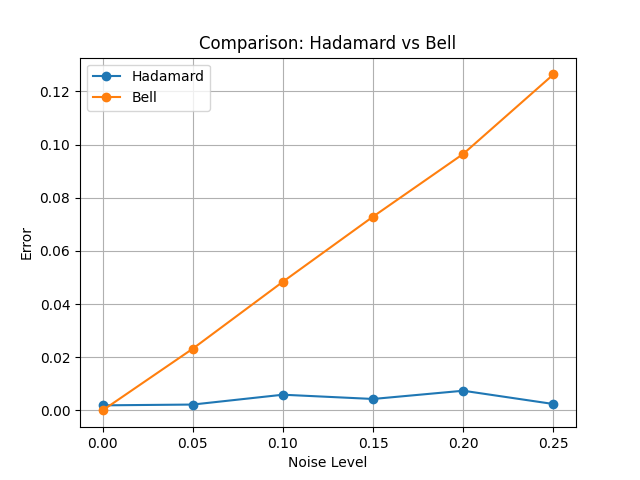
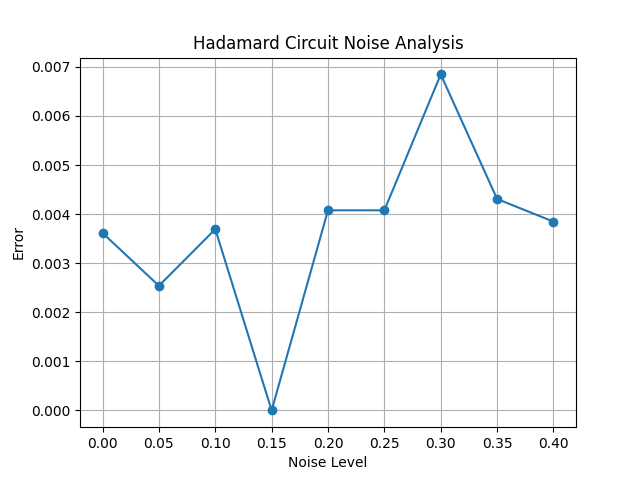
fix Error in the noise_models

diff --git a/dashboard/app.py b/dashboard/app.py
@@ -9,7 +9,7 @@ from qiskit_aer import Aer
 from qiskit import transpile
 
 from src.circuits import create_hadamard_circuit, create_bell_circuit
-from src.noise_models import get_depolarizing_noise
+from src.noise_models import get_custom_noise
 
 import matplotlib.pyplot as plt
 import pandas as pd
@@ -34,6 +34,12 @@ shots = st.sidebar.slider("Shots", 1000, 20000, 10000, step=1000)
 
 noise_levels = [round(x, 2) for x in [i * 0.05 for i in range(int(max_noise / 0.05) + 1)]]
 
+noise_types = st.sidebar.multiselect(
+    "Select Noise Types",
+    ["Depolarizing", "Bit Flip", "Phase Flip"],
+    default=["Depolarizing"]
+)
+
 simulator = Aer.get_backend('aer_simulator')
 
 
@@ -55,7 +61,7 @@ if mode == "Single Circuit":
     data = []
 
     for noise in noise_levels:
-        noise_model = get_depolarizing_noise(noise)
+        noise_model = get_custom_noise(noise, noise_types)
 
         result = simulator.run(
             compiled,
@@ -65,13 +71,15 @@ if mode == "Single Circuit":
 
         counts = result.get_counts()
 
+        # ---------- Error Calculation ----------
         if circuit_type == "Hadamard":
             zero_count = counts.get('0', 0)
             ideal = shots / 2
             error = abs(ideal - zero_count) / shots
-        else:
-            correct = counts.get('00', 0) + counts.get('11', 0)
-            error = (shots - correct) / shots
+
+        else:  # Bell Circuit (FIXED)
+            wrong = counts.get('01', 0) + counts.get('10', 0)
+            error = wrong / shots
 
         errors.append(error)
 
@@ -102,7 +110,7 @@ if mode == "Single Circuit":
     if circuit_type == "Hadamard":
         st.success("Hadamard circuits remain relatively stable under noise.")
     else:
-        st.error("Bell circuits degrade rapidly due to entanglement and two-qubit gate errors.")
+        st.error("Bell circuits show increasing errors due to entanglement sensitivity.")
 
 
 # ===========================
@@ -120,9 +128,9 @@ elif mode == "Compare Both":
     bell_errors = []
 
     for noise in noise_levels:
-        noise_model = get_depolarizing_noise(noise)
+        noise_model = get_custom_noise(noise, noise_types)  # FIXED
 
-        # Hadamard
+        # ---------- Hadamard ----------
         result_h = simulator.run(
             compiled_h,
             shots=shots,
@@ -134,7 +142,7 @@ elif mode == "Compare Both":
         error_h = abs((shots / 2) - zero_count) / shots
         hadamard_errors.append(error_h)
 
-        # Bell
+        # ---------- Bell (FIXED) ----------
         result_b = simulator.run(
             compiled_b,
             shots=shots,
@@ -142,8 +150,8 @@ elif mode == "Compare Both":
         ).result()
 
         counts_b = result_b.get_counts()
-        correct = counts_b.get('00', 0) + counts_b.get('11', 0)
-        error_b = (shots - correct) / shots
+        wrong = counts_b.get('01', 0) + counts_b.get('10', 0)
+        error_b = wrong / shots
         bell_errors.append(error_b)
 
     # ---------- Table ----------
@@ -172,9 +180,8 @@ elif mode == "Compare Both":
 
     # ---------- Insight ----------
     st.subheader("Insight")
-
-    st.success("Hadamard circuits remain relatively stable under noise.")
-    st.error("Bell circuits show significantly higher sensitivity due to entanglement.")
+    st.success("Hadamard circuits are more robust under noise.")
+    st.error("Bell circuits are highly sensitive due to entanglement.")
 
 
 # ===========================

diff --git a/src/noise_models.py b/src/noise_models.py
@@ -1,16 +1,30 @@
-from qiskit_aer.noise import NoiseModel, depolarizing_error
+from qiskit_aer.noise import NoiseModel
+from qiskit_aer.noise.errors import depolarizing_error, pauli_error
 
 
-def get_depolarizing_noise(p=0.1):
+def get_custom_noise(p, noise_types):
     noise_model = NoiseModel()
 
-    error_1q = depolarizing_error(p, 1)
-    error_2q = depolarizing_error(p, 2)
+    # ---------------- Depolarizing ----------------
+    if "Depolarizing" in noise_types:
+        error_1q = depolarizing_error(p, 1)
+        error_2q = depolarizing_error(p, 2)
 
-    # Apply to single-qubit gates
-    noise_model.add_all_qubit_quantum_error(error_1q, ['h'])
+        noise_model.add_all_qubit_quantum_error(error_1q, ['h'])
+        noise_model.add_all_qubit_quantum_error(error_2q, ['cx'])
 
-    # Apply to two-qubit gates (CRITICAL for Bell)
-    noise_model.add_all_qubit_quantum_error(error_2q, ['cx'])
+    # ---------------- Bit Flip ----------------
+    if "Bit Flip" in noise_types:
+        bit_flip = pauli_error([('X', p), ('I', 1 - p)])
+
+        noise_model.add_all_qubit_quantum_error(bit_flip, ['h'])   # only 1-qubit gate
+      
+
+    # ---------------- Phase Flip ----------------
+    if "Phase Flip" in noise_types:
+        phase_flip = pauli_error([('Z', p), ('I', 1 - p)])
+
+        noise_model.add_all_qubit_quantum_error(phase_flip, ['h'])  # only 1-qubit
+       
 
     return noise_model
